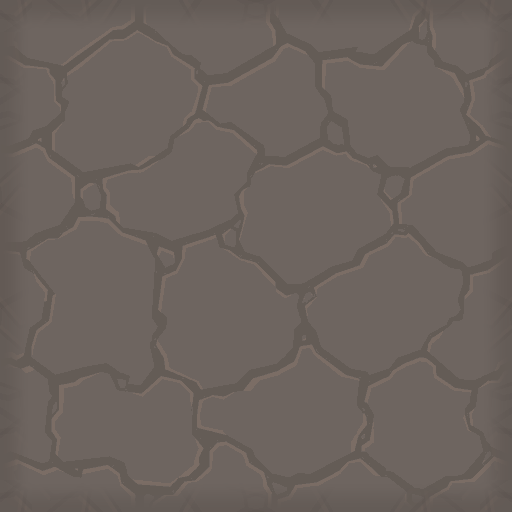
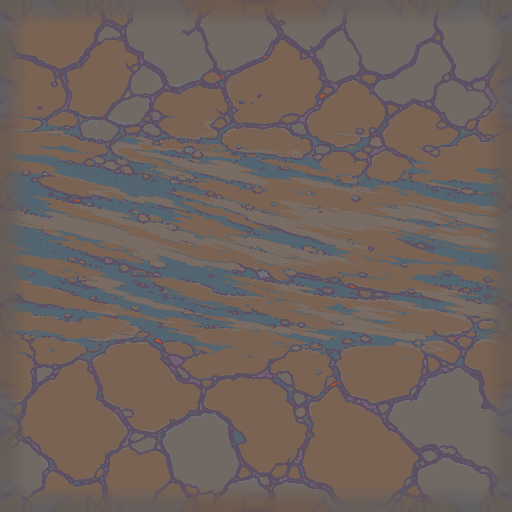
art: fix ashlands tile contract

diff --git a/docs/sol-reports/b60-ashlands-kit.md b/docs/sol-reports/b60-ashlands-kit.md
@@ -6,7 +6,7 @@ Branch: `sol/b60-ashlands-kit`
 
 Scope: Ashlands only — four floor tiles and one pit rim.
 
-## Result
+## Iteration 1 result (v1, `13a7676`)
 
 Ashlands is now a lit ash-grey cel-shaded field rather than a near-black photographic texture. The
 four fixed slots carry the navigation roles in order:
@@ -89,7 +89,9 @@ install menu key art.
 
 `node tools/artkit/check-tile-values.mjs ashlands` checks all five required files, dimensions, opacity,
 alpha-weighted mean/min/max/spread, floor-family drift, rim ground/wall/void bands, and the y=128 split.
-It exits non-zero on a violation and exits 0 for the shipped kit.
+Iteration 2 extends the gate with per-tile mean RGB, central-field palette classification, a 4-6 surface
+colour contract, distinct ink detection, and accent-area enforcement at no more than 8%. It exits
+non-zero on a violation and exits 0 for the shipped kit.
 
 ## Verification
 
@@ -101,4 +103,71 @@ It exits non-zero on a violation and exits 0 for the shipped kit.
 - Entity-outline thesis crop — black outline visibly separated from the new ash-grey floor:
   `docs/sol-reports/b60-evidence/ashlands-entity-outline.png`.
 
-VERDICT: PASS — means tile-0 92.12, tile-1 100.50, tile-2 94.01, tile-3 93.95, rim 63.71; R2/rim bands PASS; iterations 2/2/4/2/2; typecheck PASS; full test 2,778 PASS (20 skipped); captures docs/sol-reports/b60-evidence/ashlands-live.png and docs/sol-reports/b60-evidence/ashlands-entity-outline.png
+V1 VERDICT (`13a7676`): value gate PASS; ink, colour, and semantic-role contracts required correction.
+
+## Iteration 2 — v1 vs v2 contract correction
+
+Iteration 2 keeps the validated value family, exact toroidal folds, and unchanged rim while correcting
+the three failed contracts. Colour variation is carried by bounded hue and saturation changes inside
+the established luminance family: six flat volcanic surface colours, the near-black warm-purple theme
+ink `#574A5C`, and the ember accent `#C44C14`. Accent coverage is 0.149% across the four-tile family
+and no more than 0.432% on any tile, comfortably below the 8% cap.
+
+| File | v1 mean | v1 mean RGB | v2 mean | v2 mean RGB | v2 spread | v2 palette / accent |
+| --- | ---: | ---: | ---: | ---: | ---: | ---: |
+| `tile-0.png` | 92.6 | (99, 91, 86) | 93.07 | (99.08, 91.60, 89.86) | ±13.01 | 6 + ink / 0.000% |
+| `tile-1.png` | 101.1 | (108, 99, 94) | 100.22 | (110.17, 98.04, 92.51) | ±17.38 | 6 + ink / 0.025% |
+| `tile-2.png` | 94.4 | (100, 93, 87) | 93.19 | (101.00, 90.79, 93.93) | ±16.13 | 6 + ink / 0.139% |
+| `tile-3.png` | 94.4 | (100, 93, 89) | 93.46 | (103.18, 91.04, 88.81) | ±16.40 | 6 + ink / 0.432% |
+
+The v2 floor-family mean is 94.99 with maximum tile drift ±5.23. Every floor remains inside the
+70–125 mean band and ±18 spread gate. The unchanged rim remains mean 63.71 with ground 90.05, wall
+44.81, void 20.02, and its five-pixel lip at y=126–130 centred exactly on y=128.
+
+### Ink contract
+
+All material-region boundaries are deliberate, hard-edged drawn ink rather than embossed shading.
+Installed tile lines measure 3–4px on major plate/material boundaries and 2px on minor cracks; the
+unchanged rim lip remains 5px. The fixed ink colour is part of the theme palette and is kept distinct
+from surface-colour quantization.
+
+### Semantic role read
+
+- `tile-0`, quiet bed: broad uninterrupted settled-ash and basalt fields with the fewest joints make
+  the default ground visibly calm.
+- `tile-1`, worn route: a broad horizontal swept/scuffed lane and partly filled joints give a
+  directional travelled read even when only a crop is visible.
+- `tile-2`, disturbed cluster: overlapping broken plate, slag, and ash-bank clusters read as churned
+  ground where an event has upheaved the surface.
+- `tile-3`, pit approach: branching stress lines widen into dark, ember-bearing gaps toward a collapse
+  fan, making the tile a failing-ground warning.
+
+### V2 evidence and seam audit
+
+- `docs/sol-reports/b60-evidence/ashlands-live.png` — 1920×1080 live Ashlands fight with v2 tiles,
+  entities, pits, and unchanged rim.
+- `docs/sol-reports/b60-evidence/ashlands-entity-outline.png` — 520×360 live entity-outline crop on
+  the v2 palette.
+- `docs/sol-reports/b60-evidence/ashlands-tiles-sheet.png` — 1024×1024, 2×2 at 1:1: tile 0 top-left,
+  tile 1 top-right, tile 2 bottom-left, and tile 3 bottom-right.
+
+All four tiles measure 0.000 MAE at left/right and top/bottom folds, and all shared cross-variant
+perimeters measure 0.000 MAE. The contact sheet therefore shows the authored centres without hiding
+any seam correction.
+
+### Amber-wash measurement
+
+The gameplay semaphore was left unchanged. In the typical-fight live capture, its saturated
+amber/orange rail and core occupy approximately 1.8% of the 1920×1080 viewport (1.51% at the strict
+core threshold; 1.76% with the full rail threshold). A deliberately broad warm-pixel threshold reads
+16.8%, but it also counts authored umber/cinder floor regions, so that number is an inclusive visual
+wash estimate rather than attributable semaphore area. The owner can rule using both measures.
+
+### V2 verification
+
+- `node tools/artkit/check-tile-values.mjs ashlands` — PASS, exit 0.
+- `pnpm typecheck` — PASS.
+- Full `pnpm test` — PASS: 220 test files; 2,778 passed, 20 skipped.
+- Real-stack Playwright evidence capture — PASS.
+
+VERDICT: PASS — means tile-0 93.07 RGB (99.08,91.60,89.86), tile-1 100.22 RGB (110.17,98.04,92.51), tile-2 93.19 RGB (101.00,90.79,93.93), tile-3 93.46 RGB (103.18,91.04,88.81), rim 63.71; band PASS (family 94.99, drift ±5.23; rim split y=128 PASS); ink 3–4px major / 2px minor (rim lip 5px); amber-wash coverage ~1.8% rail/core (16.8% inclusive warm threshold); typecheck PASS; full test PASS — 220 files, 2,778 passed, 20 skipped.
